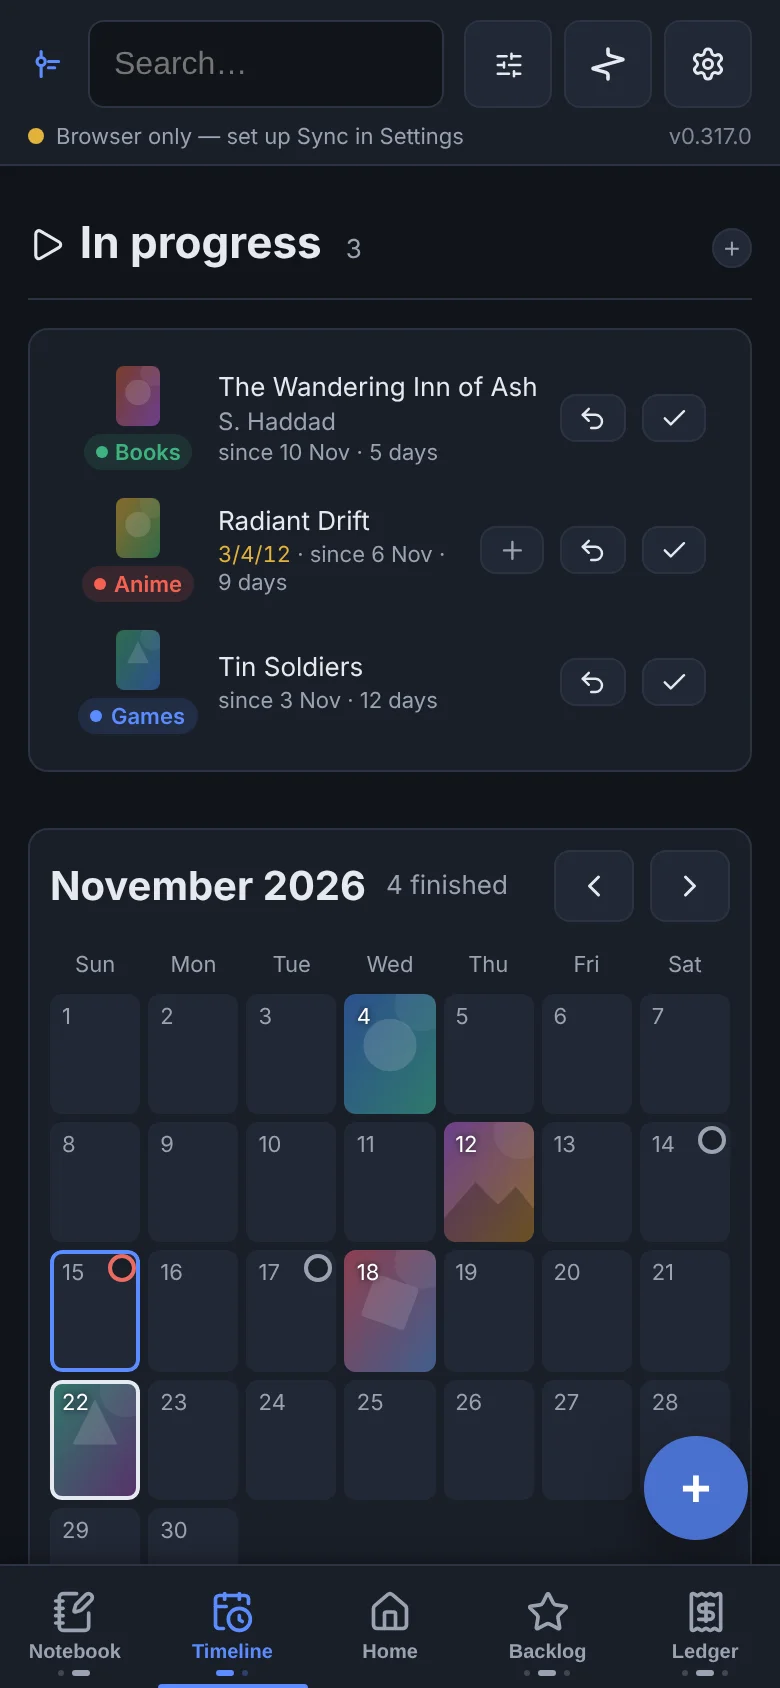
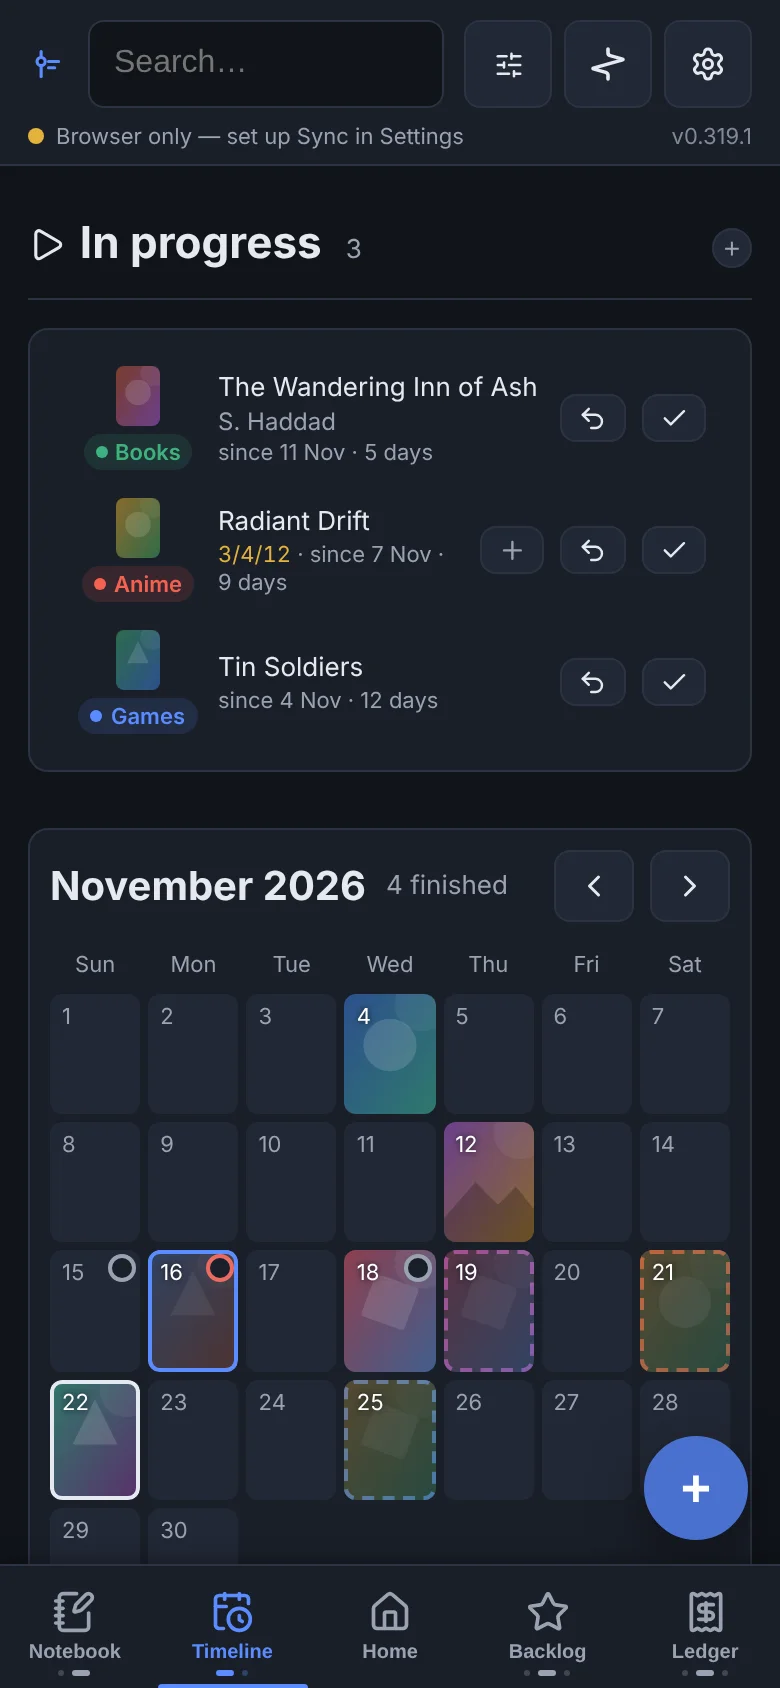
Show backlog releases on the Timeline calendar (#140)
Daniel asked to see what hasn't come out yet from his backlog on the
calendar. Releases known to the day and a show's next episode sit on
their day (dashed, in the category's colour; on a phone a faded cover in
a dashed frame), month and quarter windows that cover the month and
haven't passed go in a box under the grid. Year and TBA stay off: a
whole year isn't a day. Past days of the month keep theirs so the month
still reads as a record. Dropped items are left out; the Timeline's
category chips apply. View → Releases on the calendar turns it off (per
device).

No bridge change: lifelog_upcoming already lists the same releases.

Claude-Session: https://claude.ai/code/session_01CFeKrj6uRmpgoH5cyodhUQ

diff --git a/src/journal.js b/src/journal.js
@@ -245,6 +245,13 @@
       if (!tasksByDay.has(d)) tasksByDay.set(d, []);
       tasksByDay.get(d).push(r);
     }
+    // What the backlog has coming out (0.320.0), under the same category
+    // chips as the entries; View → Releases turns it off.
+    const B = window.LifeLogBacklog;
+    const cats = state.activeCats;
+    const rel = B && state.visual.calendarReleases !== "hide"
+      ? B.calendarReleases(state.data.backlog.filter((b) => !cats.size || cats.has(b.category)), y, m)
+      : { byDay: new Map(), rough: [] };
     const now = new Date();
     const today = now.getFullYear() === y && now.getMonth() + 1 === m ? now.getDate() : 0;
     if (!calDay || calDay > days) calDay = today && byDay.has(today) ? today : (Math.max(0, ...byDay.keys()) || today || 1);
@@ -279,7 +286,9 @@
       cell.classList.toggle("has-entries", list.length > 0);
       cell.setAttribute("aria-pressed", String(d === calDay));
       const due = tasksByDay.get(d) || [];
+      const outs = rel.byDay.get(d) || [];
       cell.setAttribute("aria-label", D.day(calKey(y, m) + "-" + pad2(d), { year: false }) + (list.length ? ", " + i18n.t("{n} finished", { n: list.length }) : "")
+        + (outs.length ? ", " + i18n.tn(outs.length, "{n} release", "{n} releases") : "")
         + (due.length ? ", " + i18n.tn(due.length, "{n} task", "{n} tasks") : ""));
       cell.dataset.day = d;
       if (list.length) {
@@ -290,16 +299,30 @@
           : emptyCoverEl("cal-cover cover-empty", first.category));
         if (list.length > 1) cell.appendChild(el("span", "cal-more", "+" + (list.length - 1)));
       }
+      // A release gets a dashed frame in its category's colour; on a phone,
+      // where the cell is a cover, a day with nothing finished shows the
+      // release's own cover, faded, since it isn't done.
+      if (outs.length) {
+        cell.classList.add("has-release");
+        cell.style.setProperty("--rel", colorOf(outs[0].b.category));
+        if (!list.length) {
+          const b = outs[0].b;
+          cell.classList.toggle("has-cover", !!b.coverUrl);
+          cell.appendChild(b.coverUrl ? coverEl(b.coverUrl, "", "cal-cover is-release", b.category) : emptyCoverEl("cal-cover cover-empty is-release", b.category));
+        }
+      }
       // The desktop's cells are wide enough for names (finished entries,
       // then open tasks with a ring for a dot); the phone's show the cover
       // alone and a ring in the corner for tasks (styles.css picks one).
-      if (list.length || due.length) {
+      if (list.length || due.length || outs.length) {
         const names = el("div", "cal-names");
-        const lines = [...list.map((e) => ["entry", e]), ...due.map((r) => ["task", r])];
+        const lines = [...list.map((e) => ["entry", e]), ...outs.map((r) => ["release", r]), ...due.map((r) => ["task", r])];
         for (const [kind, x] of lines.slice(0, 3)) {
-          const n = el("span", "cal-name" + (kind === "task" ? " is-task" : ""), kind === "task" ? x.item.text : x.title);
+          const text = kind === "task" ? x.item.text : kind === "release" ? releaseName(x) : x.title;
+          const n = el("span", "cal-name" + (kind === "task" ? " is-task" : kind === "release" ? " is-release" : ""), text);
           const dot = el("span", kind === "task" ? "cal-ring" + (x.item.priority ? " is-p" + x.item.priority : "") : "dot");
           if (kind === "entry") dot.style.background = colorOf(x.category);
+          if (kind === "release") { dot.style.background = colorOf(x.b.category); n.style.setProperty("--rel", colorOf(x.b.category)); n.title = text; }
           n.prepend(dot);
           names.appendChild(n);
         }
@@ -325,6 +348,13 @@
     if (picked.length) for (const e of picked) dayCard.appendChild(calRow(e));
     else dayCard.appendChild(el("p", "cal-empty", i18n.t("Nothing finished this day")));
     side.appendChild(dayCard);
+    const outOn = rel.byDay.get(calDay) || [];
+    if (outOn.length) {
+      const box = el("div", "month-card cal-releases");
+      box.appendChild(el("h3", null, i18n.t("Releases") + " · " + outOn.length));
+      for (const r of outOn) box.appendChild(B.calendarRow(r.b));
+      side.appendChild(box);
+    }
     const dueOn = tasksByDay.get(calDay) || [];
     if (dueOn.length) {
       const box = el("div", "month-card cal-tasks");
@@ -343,10 +373,22 @@
       side.appendChild(box);
     }
 
+    if (rel.rough.length) {
+      const box = el("div", "month-card cal-releases cal-rough");
+      box.appendChild(el("h3", null, i18n.t("This month, no day yet") + " · " + rel.rough.length));
+      for (const b of rel.rough) box.appendChild(B.calendarRow(b));
+      side.appendChild(box);
+    }
+
     const body = el("div", "cal-body");
     body.append(el("div", "cal-main"), side);
     body.firstChild.append(head, grid);
     root.replaceChildren(body);
+  }
+
+  // A release's line in a day: the title, and for a show the episode.
+  function releaseName(r) {
+    return r.kind === "episode" ? r.b.title + " · " + (r.b.nextLabel || i18n.t("New episode")) : r.b.title;
   }
 
   function calRow(e) {

diff --git a/test/browser/timelinecal.js b/test/browser/timelinecal.js
@@ -13,7 +13,11 @@ const SEED = {
     { id: "d", title: "No Day Book", category: "Books", year: 2025, month: 3, createdAt: "2025-03-02T00:00:00.000Z" },
     { id: "e", title: "February Game", category: "Games", year: 2025, month: 2, day: 14, createdAt: "2025-02-14T00:00:00.000Z" },
   ],
-  backlog: [], notes: [], todos: [], financeEntries: [], recurringExpenses: [],
+  backlog: [
+    { id: "r1", title: "March Release", category: "Games", releaseDate: "2025-03-28", releasePrecision: "day" },
+    { id: "r2", title: "Some Show", category: "Books", nextAt: "2025-03-12", nextLabel: "Episode 6" },
+    { id: "r3", title: "Rough Book", category: "Books", releaseDate: "2025-03", releasePrecision: "month", releaseStatus: "upcoming" },
+  ], notes: [], todos: [], financeEntries: [], recurringExpenses: [],
   projects: [], todoCategories: [], financeCategories: [], settings: {},
 };
 
@@ -60,6 +64,24 @@ const SEED = {
   await page.setViewportSize({ width: 1280, height: 900 }); await page.waitForTimeout(400);
   check("a desktop cell names its entries", (await page.textContent('.cal-day[data-day="9"] .cal-names')).includes("Same Day Book"));
   if (shots) await page.screenshot({ path: shots + "/cal-desktop.png" });
+
+  // Backlog releases (0.320.0).
+  check("a release sits on its day as a dashed line", (await page.textContent('.cal-day[data-day="28"] .cal-name.is-release')) === "March Release");
+  check("a show's next episode says which", (await page.textContent('.cal-day[data-day="12"] .cal-name.is-release')) === "Some Show · Episode 6");
+  await page.click('.cal-day[data-day="28"]'); await page.waitForTimeout(300);
+  check("the picked day lists its releases", (await page.textContent(".cal-releases:not(.cal-rough) h3")) === "Releases · 1");
+  check("a month-only release waits under the grid", (await page.textContent(".cal-rough")).includes("Rough Book"));
+  await page.click('.cal-releases:not(.cal-rough) .cal-release-row'); await page.waitForTimeout(400);
+  check("and a release opens its backlog sheet", !(await page.isHidden("#backlogModal")));
+  await page.keyboard.press("Escape"); await page.waitForTimeout(300);
+  await page.setViewportSize({ width: 400, height: 900 }); await page.waitForTimeout(400);
+  check("on a phone a day with only a release shows its faded cover in a dashed frame",
+    !!(await page.$('.cal-day[data-day="12"].has-release .cal-cover.is-release')) &&
+    (await page.evaluate(() => getComputedStyle(document.querySelector('.cal-day[data-day="12"]')).outlineStyle)) === "dashed");
+  await page.click("#viewOptionsBtn"); await page.waitForTimeout(300);
+  await page.selectOption("#calendarReleases", "hide"); await page.waitForTimeout(300);
+  await page.click("#closeViewOptionsBtn"); await page.waitForTimeout(400);
+  check("View → Releases on the calendar → Hide takes them off", !(await page.$(".cal-day.has-release")) && !(await page.$(".cal-rough")));
 
   check("no console errors", errs.length === 0, errs);
   await b.close();

diff --git a/src/styles.css b/src/styles.css
@@ -2273,6 +2273,11 @@ html.force-mobile :is(.backlog-list.bl-covers, .month-card.is-covers) { grid-tem
 .cal-ring.is-p2, .cal-task.is-p2 { border-color: var(--warning); }
 .cal-ring.is-p3, .cal-task.is-p3 { border-color: var(--accent); }
 .cal-name.is-task { color: var(--text-dim); }
+/* Backlog releases on their day (0.320.0): a dashed line in the category's
+   colour on the desktop, a dashed frame round the cell on a phone, where a
+   day with nothing finished shows the release's cover faded. */
+.cal-name.is-release { border: 1px dashed var(--rel); border-radius: var(--r-sm); padding: 0 var(--space-4); }
+.cal-release-row { cursor: pointer; }
 .cal-task {
   display: none; position: absolute; top: var(--space-2); inset-inline-end: var(--space-2); z-index: 1;
   min-width: 14px; height: 14px; padding: 0 var(--space-2); border-radius: var(--r-pill);
@@ -2288,6 +2293,8 @@ html.force-mobile :is(.backlog-list.bl-covers, .month-card.is-covers) { grid-tem
   html:not(.force-pc) .cal-day { min-height: 0; aspect-ratio: 3 / 4; padding: 0; }
   html:not(.force-pc) .cal-names { display: none; }
   html:not(.force-pc) .cal-task { display: block; }
+  html:not(.force-pc) .cal-day.has-release { outline: 2px dashed var(--rel); outline-offset: -2px; }
+  html:not(.force-pc) .cal-day .cal-cover.is-release { opacity: 0.5; }
   html:not(.force-pc) .cal-day .cal-cover { display: block; position: absolute; inset: 0; width: 100%; height: 100%; object-fit: cover; border: 0; }
   html:not(.force-pc) .cal-day .cal-cover.cover-empty { display: flex; }
   html:not(.force-pc) .cal-day.has-cover .cal-n { color: var(--text-on-fill); text-shadow: 0 0 3px var(--bg); }
@@ -2302,6 +2309,8 @@ html.force-mobile .cal-main { padding: var(--space-10); }
 html.force-mobile .cal-day { min-height: 0; aspect-ratio: 3 / 4; padding: 0; }
 html.force-mobile .cal-names { display: none; }
 html.force-mobile .cal-task { display: block; }
+html.force-mobile .cal-day.has-release { outline: 2px dashed var(--rel); outline-offset: -2px; }
+html.force-mobile .cal-day .cal-cover.is-release { opacity: 0.5; }
 html.force-mobile .cal-day .cal-cover { display: block; position: absolute; inset: 0; width: 100%; height: 100%; object-fit: cover; border: 0; }
 html.force-mobile .cal-day .cal-cover.cover-empty { display: flex; }
 html.force-mobile .cal-day.has-cover .cal-n { color: var(--text-on-fill); text-shadow: 0 0 3px var(--bg); }

diff --git a/src/backlog.js b/src/backlog.js
@@ -1708,6 +1708,44 @@
     return meta;
   }
 
+  // The Timeline's calendar (0.320.0): what the backlog has coming out in
+  // one month. A release known to the day and a show's next episode sit on
+  // their day; a month or quarter that covers this month and hasn't passed
+  // goes in `rough`. Years and TBA stay off: a whole year is no day.
+  // Past days of the month keep theirs, so the month reads as a record too.
+  function calendarReleases(items, y, m) {
+    const key = y + "-" + String(m).padStart(2, "0");
+    const byDay = new Map(), rough = [];
+    const add = (raw, b, kind) => {
+      const d = +raw.slice(8, 10);
+      if (!byDay.has(d)) byDay.set(d, []);
+      const list = byDay.get(d);
+      if (!list.some((r) => r.b === b)) list.push({ b, kind });
+    };
+    for (const b of items) {
+      if (b.dropped) continue;
+      if (b.nextAt && isRealDate(b.nextAt) && b.nextAt.startsWith(key + "-")) add(b.nextAt, b, "episode");
+      const raw = (b.releaseDate || "").slice(0, 10);
+      const precision = precisionOf(b);
+      if (precision === "day") {
+        if (isRealDate(raw) && raw.startsWith(key + "-")) add(raw, b, "release");
+      } else if ((precision === "month" || precision === "quarter") && isUnreleased(b)) {
+        const w = releaseWindow(b);
+        if (w && w.start <= key + "-31" && w.end >= key + "-01") rough.push(b);
+      }
+    }
+    rough.sort((a, b) => a.title.localeCompare(b.title));
+    return { byDay, rough };
+  }
+  // A release's row in the calendar's side cards: the Upcoming page's row,
+  // opening the item.
+  function calendarRow(b) {
+    const row = upcomingRow(b);
+    row.classList.add("cal-release-row");
+    row.onclick = () => openBacklogModal(b);
+    return row;
+  }
+
   // ---------- Out today ----------
   // Next Releases drops a title the day after its date, which is exactly when
   // you'd want to know it came out. So the day it's out it gets a card of its
@@ -3678,6 +3716,8 @@
     airingLabel,
     stillAiring,
     upcomingAt,
+    // the Timeline's calendar (journal.js, test/backlog.test.js)
+    calendarReleases, calendarRow,
     releaseLabel, // the Upcoming widget's wording (widgets.js)
     // manual release-date overrides (test/backlog.test.js)
     parseReleaseInput,

diff --git a/test/backlog.test.js b/test/backlog.test.js
@@ -586,6 +586,27 @@ test("airingLabel says how far it has run", () => {
   assert.strictEqual(stillAiring({ airing: "between" }), false);
 });
 
+test("the calendar puts releases on their day and rough months aside (0.320.0)", () => {
+  const { calendarReleases } = Backlog;
+  const y = new Date().getFullYear() + 1;
+  const items = [
+    { id: "a", title: "Game", category: "Games", releaseDate: y + "-03-14", releasePrecision: "day" },
+    { id: "b", title: "Show", category: "Shows", releaseDate: "2020-01-01", releasePrecision: "day", nextAt: y + "-03-20", nextLabel: "Episode 6" },
+    { id: "c", title: "Book", category: "Books", releaseDate: y + "-03", releasePrecision: "month" },
+    { id: "d", title: "Quarter", category: "Games", releaseDate: y + "-01", releasePrecision: "quarter" },
+    { id: "e", title: "Year", category: "Games", releaseDate: String(y), releasePrecision: "year" },
+    { id: "f", title: "Dropped", category: "Games", releaseDate: y + "-03-02", releasePrecision: "day", dropped: true },
+    { id: "g", title: "Same day", category: "Shows", releaseDate: y + "-03-14", releasePrecision: "day", nextAt: y + "-03-14" },
+  ];
+  const r = calendarReleases(items, y, 3);
+  assert.deepStrictEqual([...r.byDay.keys()].sort((a, b) => a - b), [14, 20]);
+  assert.deepStrictEqual(r.byDay.get(14).map((x) => x.b.id + ":" + x.kind), ["a:release", "g:episode"]);
+  assert.deepStrictEqual(r.byDay.get(20).map((x) => x.kind), ["episode"]);
+  assert.deepStrictEqual(r.rough.map((b) => b.id), ["c", "d"]);
+  assert.deepStrictEqual(calendarReleases(items, y, 4).rough.map((b) => b.id), []);
+  assert.strictEqual(calendarReleases(items, y, 4).byDay.size, 0);
+});
+
 test("a cover tile asks for the bigger art where the source has one", () => {
   const { tileCoverUrl } = Backlog;
   assert.strictEqual(tileCoverUrl("https://cdn.akamai.steamstatic.com/steam/apps/620/header.jpg"),

diff --git a/src/lang/he.js b/src/lang/he.js
@@ -188,6 +188,7 @@ Keel.i18n.strings("he", {
   "{n} started": "{n} התחילו",
   "{n} still missing": "עדיין חסרות {n}",
   "{n} SVG pictures": { one: "תמונת SVG אחת", other: "{n} תמונות SVG" },
+  "{n} releases": { one: "יציאה אחת", other: "{n} יציאות" },
   "{n} tasks": { one: "משימה אחת", other: "{n} משימות" },
   "{n} tasks done": { one: "משימה אחת בוצעה", other: "{n} משימות בוצעו" },
   "{n} things are out today": { one: "דבר אחד יוצא היום", other: "{n} דברים יוצאים היום" },
@@ -1599,6 +1600,10 @@ Keel.i18n.strings("he", {
   "No date announced": "לא הוכרז תאריך",
   "No date yet": "עוד אין תאריך",
   "No day set": "לא נקבע יום",
+  "New episode": "פרק חדש",
+  "Releases": "יציאות",
+  "Releases on the calendar": "יציאות בלוח השנה",
+  "This month, no day yet": "החודש, עוד בלי יום",
   "No entries logged in {year}.": "לא נרשמו רשומות ב‑{year}.",
   "No entries match your filters.": "אין רשומות שמתאימות למסננים.",
   "No existing data found at this sync target — open the link from the device that already has your data, or set this up from Settings instead.": "לא נמצאו נתונים ביעד הסנכרון הזה — כדאי לפתוח את הקישור מהמכשיר שכבר יש בו את הנתונים, או להגדיר את זה מההגדרות.",

diff --git a/src/app.js b/src/app.js
@@ -59,7 +59,7 @@
   // object, so a default declared here is the only one there is — a `||` at
   // the read site is a second copy that can drift from it.
   // maxWidth 0 = stretch.
-  const DEFAULT_VISUAL = { monthMinWidth: 180, monthMaxWidth: 0, fontFamily: "system", pollInterval: 30, forceLayout: "none", motion: "on", theme: "default", timelineCoverSize: "small", backlogCoverSize: "big", backlogLayout: "list", timelineLayout: "list", backlogSummaries: "show", backlogCounts: "split", discoverHideOwned: false, outTodaySheet: "show", ledgerMonthSummary: "show", timelineMonthSummary: "hide", habitsLeftPanel: "show",
+  const DEFAULT_VISUAL = { monthMinWidth: 180, monthMaxWidth: 0, fontFamily: "system", pollInterval: 30, forceLayout: "none", motion: "on", theme: "default", timelineCoverSize: "small", backlogCoverSize: "big", backlogLayout: "list", timelineLayout: "list", calendarReleases: "show", backlogSummaries: "show", backlogCounts: "split", discoverHideOwned: false, outTodaySheet: "show", ledgerMonthSummary: "show", timelineMonthSummary: "hide", habitsLeftPanel: "show",
     // The Home tab's sections, in order, and the ones turned off (home.js).
     homeSections: ["progress", "upcoming", "scratchpad", "pinned"], homeHidden: [], homeScratchMode: "note", noteLineNumbers: "off", noteTextSize: "medium", noteOpenIn: "read",
     // One per set-aside band: "always" (a plain rule, never folds), "open"

diff --git a/src/settings.js b/src/settings.js
@@ -1090,6 +1090,7 @@
     $("#monthMax").value = state.visual.monthMaxWidth;
     $("#currency").value = state.data.settings.currency;
     $("#timelineLayout").value = state.visual.timelineLayout || "list";
+    $("#calendarReleases").value = state.visual.calendarReleases || "show";
     $("#backlogLayout").value = state.visual.backlogLayout || "list";
     $("#timelineCoverSize").value = state.visual.timelineCoverSize || "small";
     $("#backlogCoverSize").value = state.visual.backlogCoverSize || "big";
@@ -1686,6 +1687,7 @@
   // List or Covers (0.290.0): per device, like the cover size.
   function onLayoutChange() {
     state.visual.timelineLayout = $("#timelineLayout").value;
+    state.visual.calendarReleases = $("#calendarReleases").value;
     state.visual.backlogLayout = $("#backlogLayout").value;
     saveVisualSettings(state.visual);
     render();
@@ -1985,6 +1987,7 @@
     langSel.onchange = () => { if (i18n.set(langSel.value)) location.reload(); };
     $("#motionSwitch").onchange = onMotionChange;
     $("#timelineLayout").onchange = onLayoutChange;
+    $("#calendarReleases").onchange = onLayoutChange;
     $("#backlogLayout").onchange = onLayoutChange;
     $("#timelineCoverSize").onchange = onTimelineCoverSizeChange;
     $("#backlogCoverSize").onchange = onBacklogCoverSizeChange;

diff --git a/index.html b/index.html
@@ -2603,6 +2603,13 @@
             </select>
           </label>
           <label class="sitem">
+            <span class="sitem-text"><span class="sitem-title"><span data-t>Releases on the calendar</span></span></span>
+            <select id="calendarReleases">
+              <option value="show" data-t>Show</option>
+              <option value="hide" data-t>Hide</option>
+            </select>
+          </label>
+          <label class="sitem">
             <span class="sitem-text"><span class="sitem-title"><span data-t>Cover art</span></span></span>
             <select id="timelineCoverSize">
               <option value="none" data-t>None</option>

diff --git a/DONE.md b/DONE.md
@@ -67,6 +67,7 @@ Every release that adds a feature adds its line here in the same commit.
 - Newest or oldest first, and optional month summaries (0.157.0, 0.143.0)
 - Covers layout under View: each month's entries as cover art, with the rating (0.290.0)
 - Calendar layout under View: a month of days with covers, the picked day's entries, and No day set (0.291.0)
+- Backlog releases and next episodes on the Timeline calendar, dashed on their day, month-only ones under the grid, opening the item; View → Releases on the calendar (next release)
 - Big covers carry the category as a label on the cover, with a book's author under the title; In progress puts it under small covers too (0.293.0, 0.294.0)
 
 ## Timeline (Stats) and Recap

diff --git a/README.md b/README.md
@@ -159,7 +159,9 @@ Open on it to go to its card instead of adding it twice.
 
 View → Layout draws the Log as cover art, or as a calendar of the days you
 finished things. A picked day lists its entries; entries without a day wait
-in No day set.
+in No day set. The calendar also shows what the backlog has coming out:
+releases and next episodes on their day in a dashed frame, and the ones
+known only to the month under the grid (View → Releases on the calendar).
 
 <table><tr>
 <td><img src="docs/screenshots/timeline-calendar-desktop.webp" alt="The Timeline's calendar on a computer" width="620"></td>

diff --git a/changes/feature-calendar-releases.md b/changes/feature-calendar-releases.md
@@ -1,0 +1,2 @@
+### Added
+- The Timeline's calendar shows what your backlog has coming out: releases and a show's next episode on their day, in a dashed frame in the category's colour (on a phone, a faded cover), and the ones known only to the month under the grid. Tap one to open it. View → Releases on the calendar turns them off.
